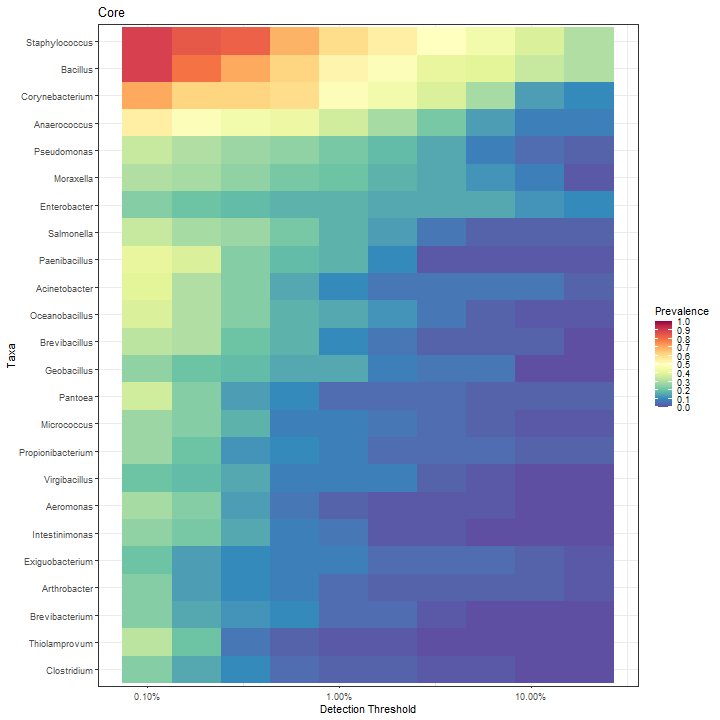
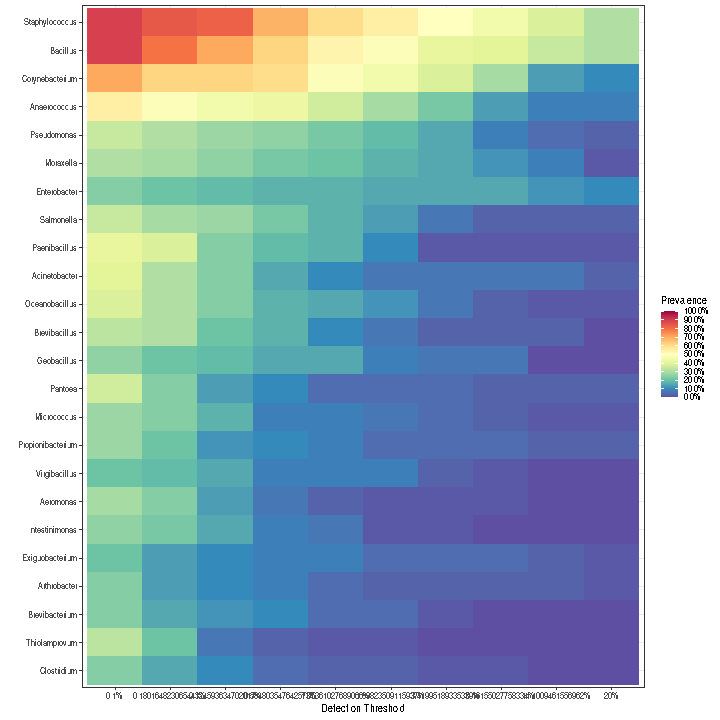
ok

diff --git a/coreanalysis.md b/coreanalysis.md
@@ -17,23 +17,37 @@ Core microbiota is here defined based on the following parameters:
   * Detection threshold (relative abundance): 0.1%
   * Prevalence threshold (above threshold in the population) 50%.
 
-The following taxonomic groups are in the core microbiota. Mean relative abundance and population prevalence (above detection threshold) are shown.
-
-Core phyla.
+The following taxonomic groups are in the core genera. Mean relative abundance and population prevalence (above detection threshold) are shown.
 
 
-|Taxon           | Relative abundance (%)| Prevalence (%)|
-|:---------------|----------------------:|--------------:|
-|Staphylococcus  |                   23.2|           89.7|
-|Bacillus        |                   21.7|           89.7|
-|Corynebacterium |                    7.1|           70.7|
-|Anaerococcus    |                    5.8|           55.2|
+```
+## Error: arrange() failed at implicit mutate() step. 
+## ✖ Could not create a temporary column for `..1`.
+## ℹ `..1` is `Abundance`.
+```
+
+
+
+|Taxon           | Mean Relative abundance (%)| Median Relative abundance (%)| Prevalence (%)|
+|:---------------|---------------------------:|-----------------------------:|--------------:|
+|Corynebacterium |                         7.1|                           1.0|           70.7|
+|Bacillus        |                        21.7|                           1.3|           89.7|
+|Staphylococcus  |                        23.2|                           3.4|           89.7|
+|Anaerococcus    |                         5.8|                           0.1|           55.2|
 Abundance variation across samples for each core taxa.
 
 ![plot of chunk core_rank_abundance](figure/core_rank_abundance-1.png)
 
 
 Core with varying detection and prevalence thresholds.
+
+
+```
+##  [1] "0.1%"               "0.180164823065441%" "0.324593634702017%"
+##  [4] "0.584803547642573%" "1.05361027689066%"  "1.89823509115937%" 
+##  [7] "3.41995189335339%"  "6.16155027758334%"  "11.1009461556962%" 
+## [10] "20%"
+```
 
 ![plot of chunk core_heatmap](figure/core_heatmap-1.png)
 ##Phylum abundance distributions
@@ -62,18 +76,18 @@ Phylum abundance table (relative abundance %):
 |Chlamydiae                 |  0.0|    0.0| 0.0|  0.0|
 |Chloroflexi                |  0.0|    0.0| 0.0|  0.1|
 |Chlorophyta                |  0.0|    0.0| 0.0|  0.1|
-|Coprothermobacterota       |  0.0|    0.0| 0.0|  0.0|
+|Coprothermobacterota       |  0.0|    0.0| 0.0|  0.0|
 |Cyanobacteria              |  0.0|    0.0| 0.0|  0.1|
 |Deinococcus-Thermus        |  0.0|    0.0| 0.0|  0.0|
 |Fibrobacteres              |  0.0|    0.0| 0.0|  0.7|
 |Gemmatimonadetes           |  0.0|    0.0| 0.0|  0.0|
-|Ignavibacteriae            |  0.0|    0.0| 0.0|  0.0|
+|Ignavibacteriae            |  0.0|    0.0| 0.0|  0.0|
 |Lentisphaerae              |  0.0|    0.0| 0.0|  0.0|
 |Nitrospirae                |  0.0|    0.0| 0.0|  0.1|
 |Pctinobacteria             |  0.0|    0.0| 0.0|  0.1|
 |Planctomycetes             |  0.0|    0.0| 0.0|  0.2|
 |Spirochaetes               |  0.0|    0.0| 0.0|  0.1|
-|Synergistetes              |  0.0|    0.0| 0.0|  0.1|
+|Synergistetes              |  0.0|    0.0| 0.0|  0.1|
 |Tenericutes                |  0.0|    0.0| 0.0|  0.4|
 |Verrucomicrobia            |  0.0|    0.0| 0.0|  0.1|
 |Viridiplantae              |  0.0|    0.0| 0.0|  0.0|
